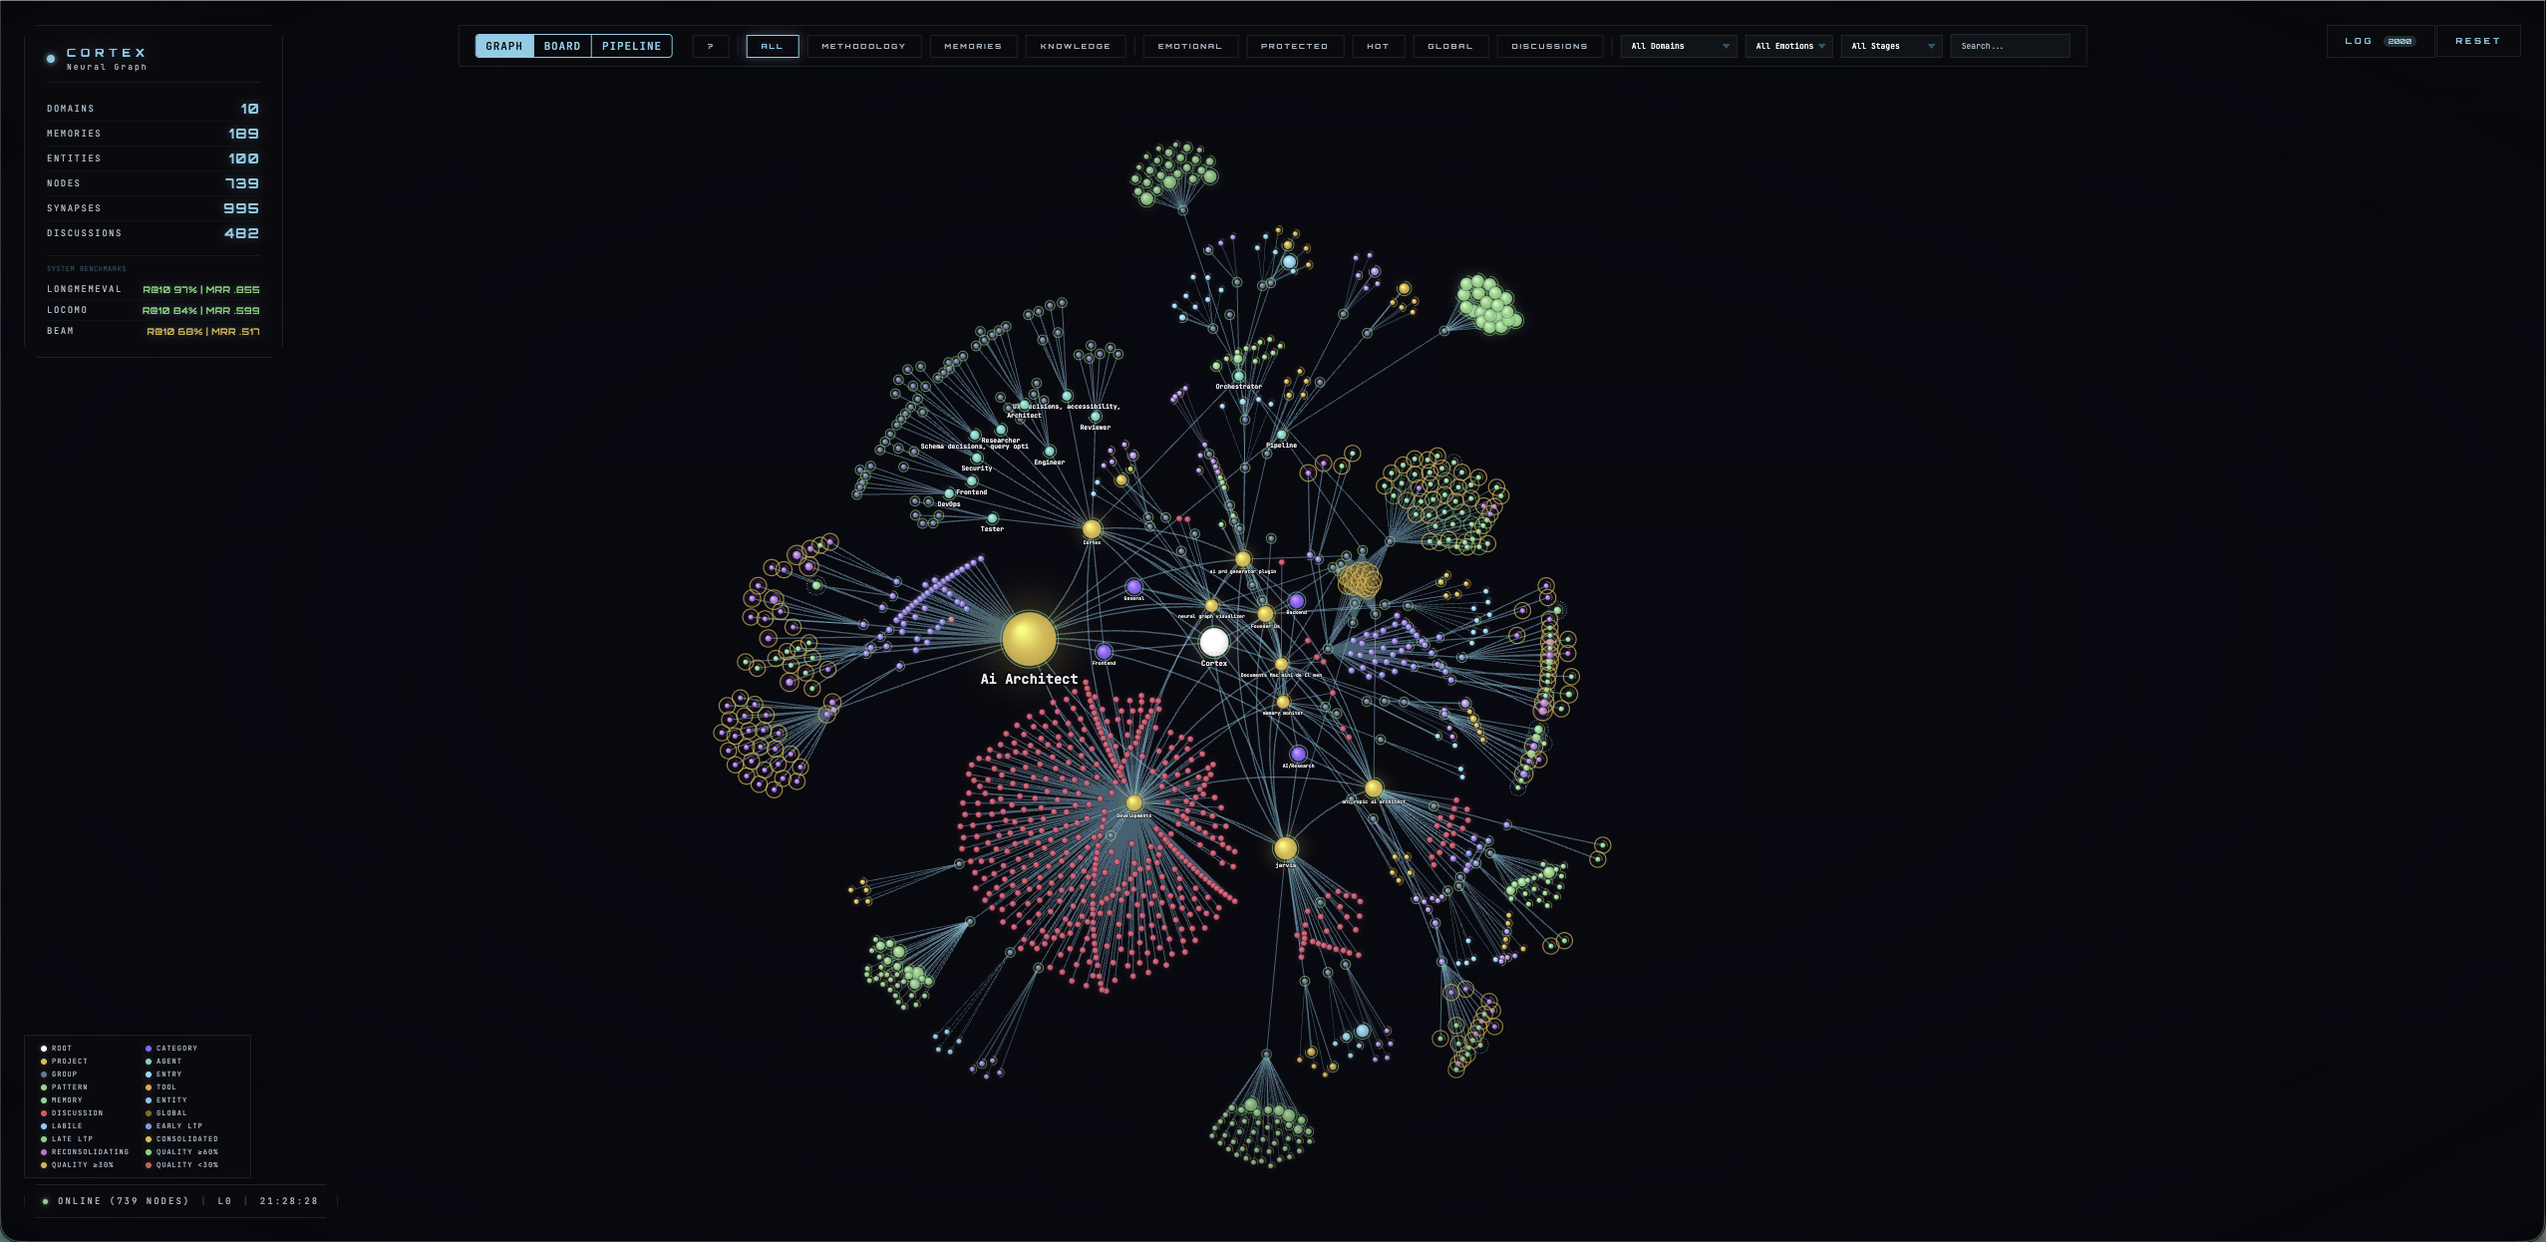
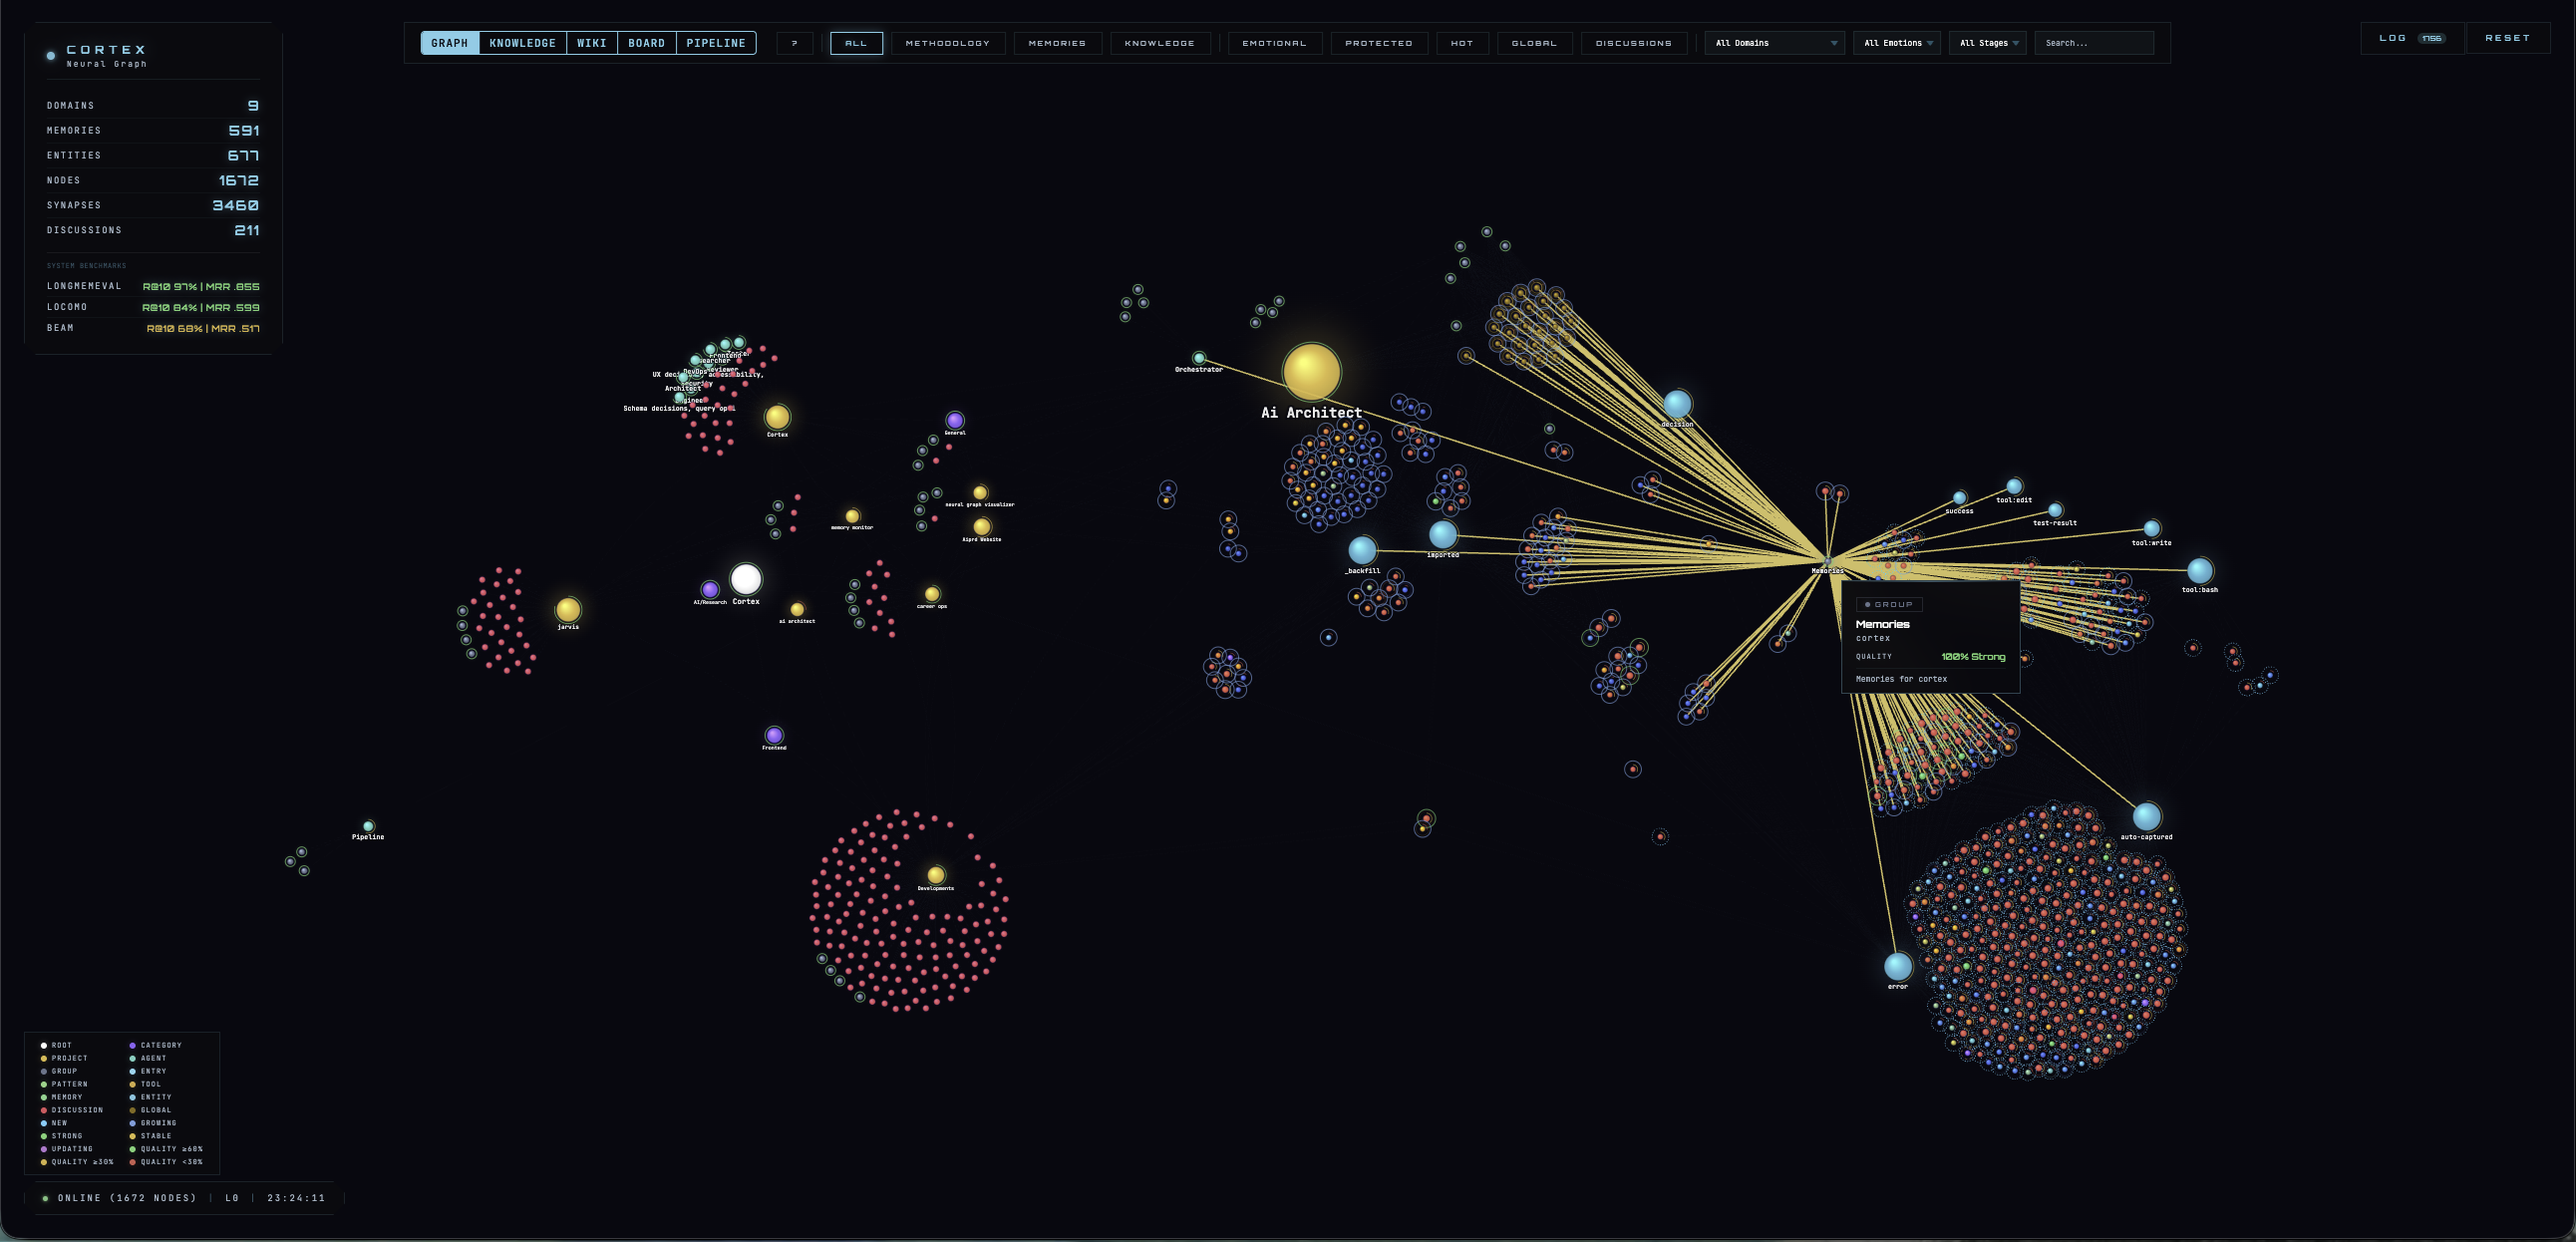
docs: add Wiki + Knowledge screenshots; refresh Graph + Board shots
README "Neural Graph" section now covers the five fully-wired views
(Graph, Wiki, Knowledge, Board, Pipeline) produced by the Phase 6
frontend redesign.

New screenshots in docs/:
  - neural-graph-wiki.png       — LaTeX-styled wiki page with heat
                                  bar, lifecycle pill, backlinks,
                                  inspector drawer
  - neural-graph-knowledge.png  — curated memory card list with
                                  heat/emotion/consolidation colours

Refreshed screenshots:
  - neural-graph-overview.png   — current force-directed graph
  - neural-graph-board.png      — consolidation-stage kanban columns

diff --git a/README.md b/README.md
@@ -11,7 +11,7 @@
 </p>
 
 <p align="center">
-  <a href="#getting-started">Getting Started</a> · <a href="#what-this-actually-feels-like">What It Feels Like</a> · <a href="#retrieval-that-actually-works">Benchmarks</a> · <a href="#the-science-under-the-hood">Science</a> · <a href="#neural-graph">Neural Graph</a>
+  <a href="#getting-started">Getting Started</a> · <a href="#what-this-actually-feels-like">What It Feels Like</a> · <a href="#retrieval-that-actually-works">Benchmarks</a> · <a href="#the-science-under-the-hood">Science</a> · <a href="#neural-graph">Views</a>
 </p>
 
 <p align="center">
@@ -244,25 +244,37 @@ This isn't documentation you write. It's documentation that writes itself from h
 
 ## Neural Graph
 
-Launch with `/cortex-visualize`. Three views:
+Launch with `/cortex-visualize`. Five views wired over the same data:
 
 <p align="center">
-<img src="docs/neural-graph-overview.png" width="100%" alt="Cortex Neural Graph — unified view with domain clusters, memories, entities, and discussions" />
+<img src="docs/neural-graph-overview.png" width="100%" alt="Cortex Neural Graph — force-directed view with domain clusters, memories, entities, and discussions" />
 </p>
 
 **Graph View** — force-directed neural graph showing domain clusters, memories, entities, and discussions connected by typed edges. Click any node for full context.
 
 <p align="center">
-<img src="docs/neural-graph-board.png" width="100%" alt="Cortex Board View — kanban consolidation stages with biological metrics" />
+<img src="docs/neural-graph-wiki.png" width="100%" alt="Cortex Wiki — LaTeX-styled page with thermodynamic heat bar, lifecycle pill, backlinks, and inspector drawer" />
 </p>
 
-**Board View** — memories organized by biological consolidation stage. Each card shows domain, heat, importance, and emotional tags.
+**Wiki View** — every memory admitted by the grounded-theory pipeline lands here as a structured page (ADR, spec, lesson, convention, note). EB Garamond body, IBM Plex Mono code, heat bar, lifecycle pill (`active` / `area` / `archived` / `evergreen`), staleness flag, backlinks footer, and an inspector drawer exposing the full audit trail (memos, source claim events, draft history).
+
+<p align="center">
+<img src="docs/neural-graph-knowledge.png" width="100%" alt="Cortex Knowledge — card list of curated memories with emotion and consolidation colors" />
+</p>
+
+**Knowledge View** — curated memory cards with heat-based left border, emotion tag, consolidation stage, and evidence file references. Filter by domain or emotion; click any card for a full-screen detail panel with Markdown + JSON pretty-print.
+
+<p align="center">
+<img src="docs/neural-graph-board.png" width="100%" alt="Cortex Board View — kanban columns for consolidation stages" />
+</p>
+
+**Board View** — memories arranged across the four biological consolidation stages (`labile` → `early_ltp` → `late_ltp` → `consolidated`). Each card carries domain, heat, importance, and emotional tags so you can see what's hardening and what's still fragile.
 
 <p align="center">
 <img src="docs/neural-graph-pipeline.png" width="100%" alt="Cortex Pipeline View — Sankey flow through consolidation stages" />
 </p>
 
-**Pipeline View** — horizontal flow from domains through the write gate into consolidation stages.
+**Pipeline View** — horizontal Sankey flow from domains through the write gate into consolidation stages. Width of each ribbon = memory volume. Makes retention and drop-off across stages visible at a glance.
 
 ---
 
